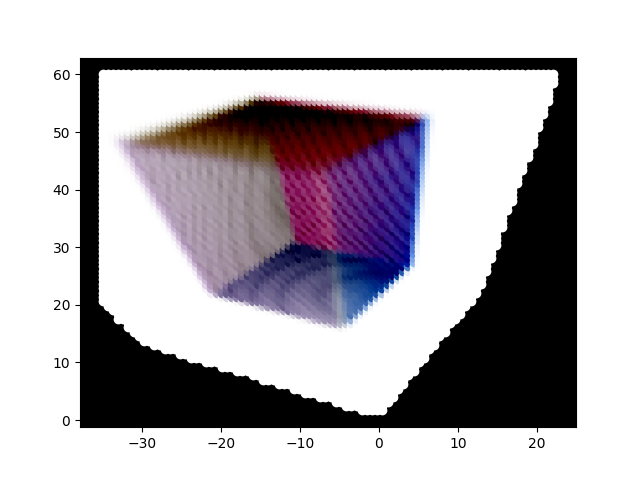
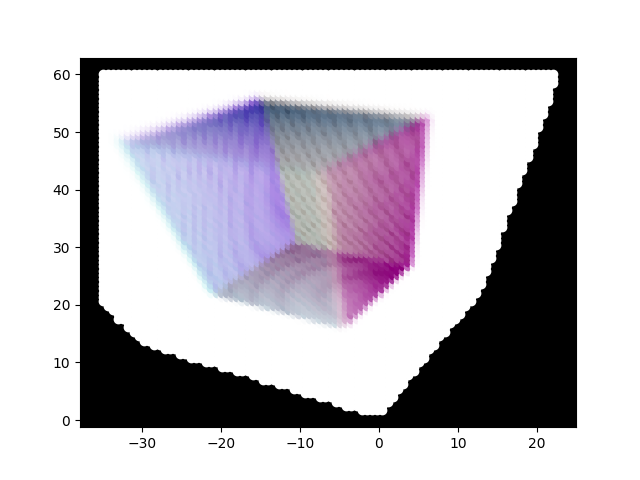
Working on spherical harmonic, using coefficients, color is rendering

Changed region(s): [[0.1875, 0.1875, 0.6875, 0.6875]]

diff --git a/code/pytorch-learn/plenoxels/volumetric-rendering-with-trilinear-interpolation-higher-sampling-rate-spherical-harmonics.py b/code/pytorch-learn/plenoxels/volumetric-rendering-with-trilinear-interpolation-higher-sampling-rate-spherical-harmonics.py
@@ -68,6 +68,7 @@ def plot(style="bo"):
 def line(marker="o"):
     return lambda p1, p2: plt.plot([p1[0][0], p2[0][0]], [p1[1][0], p2[1][0]], marker="o")
 
+
 HALF_SQRT_3_BY_PI = 0.5 * math.sqrt(3. / math.pi)
 HALF_SQRT_15_BY_PI = 0.5 * math.sqrt(15. / math.pi)
 QUARTER_SQRT_15_BY_PI = 0.25 * math.sqrt(15. / math.pi)
@@ -94,7 +95,6 @@ def harmonic(C_0_0, C_m1_1, C_0_1, C_1_1, C_m2_2, C_m1_2, C_0_2, C_1_2, C_2_2):
 
 
 def rgb_harmonics(harmonic_coefficient_tensor):
-    # print(harmonic_coefficient_tensor)
     red_harmonic = harmonic(*harmonic_coefficient_tensor[:9])
     green_harmonic = harmonic(*harmonic_coefficient_tensor[9:18])
     blue_harmonic = harmonic(*harmonic_coefficient_tensor[18:])
@@ -123,16 +123,9 @@ def channel_opacity(position_distance_density_color_tensors, viewing_angle):
         #     raise Exception(f"Transmittance was {base_transmittance}")
         # if (r > 1. or r < 0. or g > 1. or g < 0. or b > 1. or b < 0.):
         #     raise Exception(f"Harmonic values were ({r}, {g}, {b})")
-        color_densities += torch.tensor([base_transmittance * r, base_transmittance * g,  base_transmittance * b])
+        color_densities += torch.tensor([base_transmittance * r, base_transmittance * g, base_transmittance * b])
 
     return color_densities
-
-
-# tuples = torch.tensor([[1, 2, 3, 2, 0.2, 1, 1, 1], [1, 2, 3, 2, 0.2, 1, 1, 1]])
-#
-# print(channel_opacity(tuples, torch.tensor([0., 0.])))
-
-# test_harmonic = harmonic(1, 2, 3, 4, 5, 6, 7, 8, 1)
 
 
 class VoxelGrid:
@@ -196,22 +189,21 @@ class VoxelGrid:
             c_1 = c_01 * (1 - y_d) + c_11 * y_d
 
             c = c_0 * (1 - z_d) + c_1 * z_d
-            # print(c)
-            # collected_voxels.append(self.at(ray_sample[0], ray_sample[1], ray_sample[2]))
+
             collected_voxels.append(c)
         return channel_opacity(torch.cat([ray_samples_with_distances, torch.stack(collected_voxels)], 1), viewing_angle)
 
     def build_solid_cube(self):
-        for i in range(self.grid_x):
-            for j in range(self.grid_y):
-                for k in range(self.grid_z):
+        for i in range(13, self.grid_x - 13):
+            for j in range(13, self.grid_y - 13):
+                for k in range(13, self.grid_z - 13):
                     self.voxel_grid[i, j, k] = self.default_voxel
 
     def build_random_hollow_cube(self):
         self.build_hollow_cube(self.random_voxel)
 
     def build_monochrome_hollow_cube(self):
-        self.build_hollow_cube(lambda : self.random_voxel)
+        self.build_hollow_cube(lambda: self.random_voxel)
 
     def build_hollow_cube(self, make_voxel):
         voxel_1, voxel_2, voxel_3, voxel_4, voxel_5, voxel_6 = make_voxel(), make_voxel(), make_voxel(), make_voxel(), make_voxel(), make_voxel()
@@ -234,6 +226,28 @@ class VoxelGrid:
             for j in range(10, self.grid_y - 10):
                 self.voxel_grid[j, self.grid_y - 1 - 10, i] = voxel_6
 
+    def build_random_hollow_cube2(self, make_voxel, spec):
+        x, y, z, dx, dy, dz = spec
+        voxel_1, voxel_2, voxel_3, voxel_4, voxel_5, voxel_6 = make_voxel(), make_voxel(), make_voxel(), make_voxel(), make_voxel(), make_voxel()
+        for i in range(x, x + dx + 1):
+            for j in range(y, y + dy + 1):
+                self.voxel_grid[i, j, z] = voxel_1
+        for i in range(x, x + dx + 1):
+            for j in range(y, y + dy + 1):
+                self.voxel_grid[i, j, z + dz] = voxel_2
+        for i in range(y, y + dy + 1):
+            for j in range(z, z + dz + 1):
+                self.voxel_grid[x, i, j] = voxel_3
+        for i in range(y, y + dy + 1):
+            for j in range(z, z + dz + 1):
+                self.voxel_grid[x + dx, i, j] = voxel_4
+        for i in range(z, z + dz + 1):
+            for j in range(x, x + dx + 1):
+                self.voxel_grid[j, y, i] = voxel_5
+        for i in range(z, z + dz + 1):
+            for j in range(x, x + dx + 1):
+                self.voxel_grid[j, y + dy, i] = voxel_6
+
 
 grid_x = 40
 grid_y = 40
@@ -241,13 +255,16 @@ grid_z = 40
 
 world = VoxelGrid(grid_x, grid_y, grid_z)
 # world.build_solid_cube()
-world.build_random_hollow_cube()
+# world.build_random_hollow_cube()
+world.build_random_hollow_cube2(world.random_voxel, torch.tensor([10, 10, 10, 20, 20, 20]))
+world.build_random_hollow_cube2(world.random_voxel, torch.tensor([15, 15, 15, 10, 10, 10]))
 
 look_at = torch.tensor([0., 0., 0., 1])
 # camera_center = torch.tensor([-60., 5., 15., 1.])
 # camera_center = torch.tensor([-10., -10., 15., 1.])
 camera_center = torch.tensor([-20., -10., 40., 1.])
-focal_length = 1
+# camera_center = torch.tensor([-20., -20., 40., 1.])
+focal_length = 100.
 
 camera_basis = basis_from_depth(look_at, camera_center)
 camera = Camera(focal_length, camera_center, camera_basis)
@@ -278,7 +295,6 @@ plt.show()
 fig2 = plt.figure()
 for i in np.linspace(-35, 30, 100):
     for j in np.linspace(-15, 60, 100):
-        # print(f"({i}-{j})")
         ray_screen_intersection = camera_basis_x * i + camera_basis_y * j
         unit_ray = unit_vector(ray_screen_intersection - camera_center_inhomogenous)
         density = 0.
@@ -305,7 +321,7 @@ for i in np.linspace(-35, 30, 100):
         color_densities = world.density(ray_samples_with_distances, viewing_angle)
         print(color_densities)
 
-        plt.plot(i, j, marker="o", color= (1. - torch.clamp(color_densities, min=0, max=1).numpy()))
+        plt.plot(i, j, marker="o", color=(1. - torch.clamp(color_densities, min=0, max=1).numpy()))
 
 plt.show()
 print("Done!!")

diff --git a/_posts/2022-12-07-pytorch-guide-plenoxels-nerf-part-3.md b/_posts/2022-12-07-pytorch-guide-plenoxels-nerf-part-3.md
@@ -49,11 +49,19 @@ Here is an example of an example 2nd order harmonic with some randomly chosen co
 ```
 ### Incorporating Spherical Harmonics
 
-### Example Render using Spherical Harmonics and Opacity
+Let's incorporate spherical harmonics into our rendering model. We have reached the point where each voxel in the world needs to be represented by a full-blown tensor of opacity and three set of 9 harmonic coefficients, hence 28 numbers.
+
+Also, we are no longer calculating a single density; we are calculating the intensity for each colour channel. It is the same calculation, however the colour will now be calculated using the spherical harmonic functions.
+
+```python
+{% include_absolute '/code/pytorch-learn/plenoxels/volumetric-rendering-with-trilinear-interpolation-higher-sampling-rate-spherical-harmonics.py' %}
+```
+We also take this opportunity to do some obvious optimisations, like precomputing the spherical harmonic constants.
+
+### Example Renders using Spherical Harmonics
 
 ![Volumetric Rendering using Trilinear Interpolation with Spherical Harmonic-1](/assets/images/volumetric-rendering-trilinear-interpolation-spherical-harmonics.png)
-![Volumetric Rendering using Trilinear Interpolation with Spherical Harmonic-2](/assets/images/volumetric-rendering-trilinear-interpolation-spherical-harmonics-2.png)
-![Volumetric Rendering using Trilinear Interpolation with Spherical Harmonic-2](/assets/images/volumetric-rendering-trilinear-interpolation-spherical-harmonics-3.png)
+![Volumetric Rendering using Trilinear Interpolation with Spherical Harmonic-2](/assets/images/volumetric-rendering-trilinear-interpolation-spherical-harmonics-box-in-box.png)
 
 ### Calculating Loss
 
